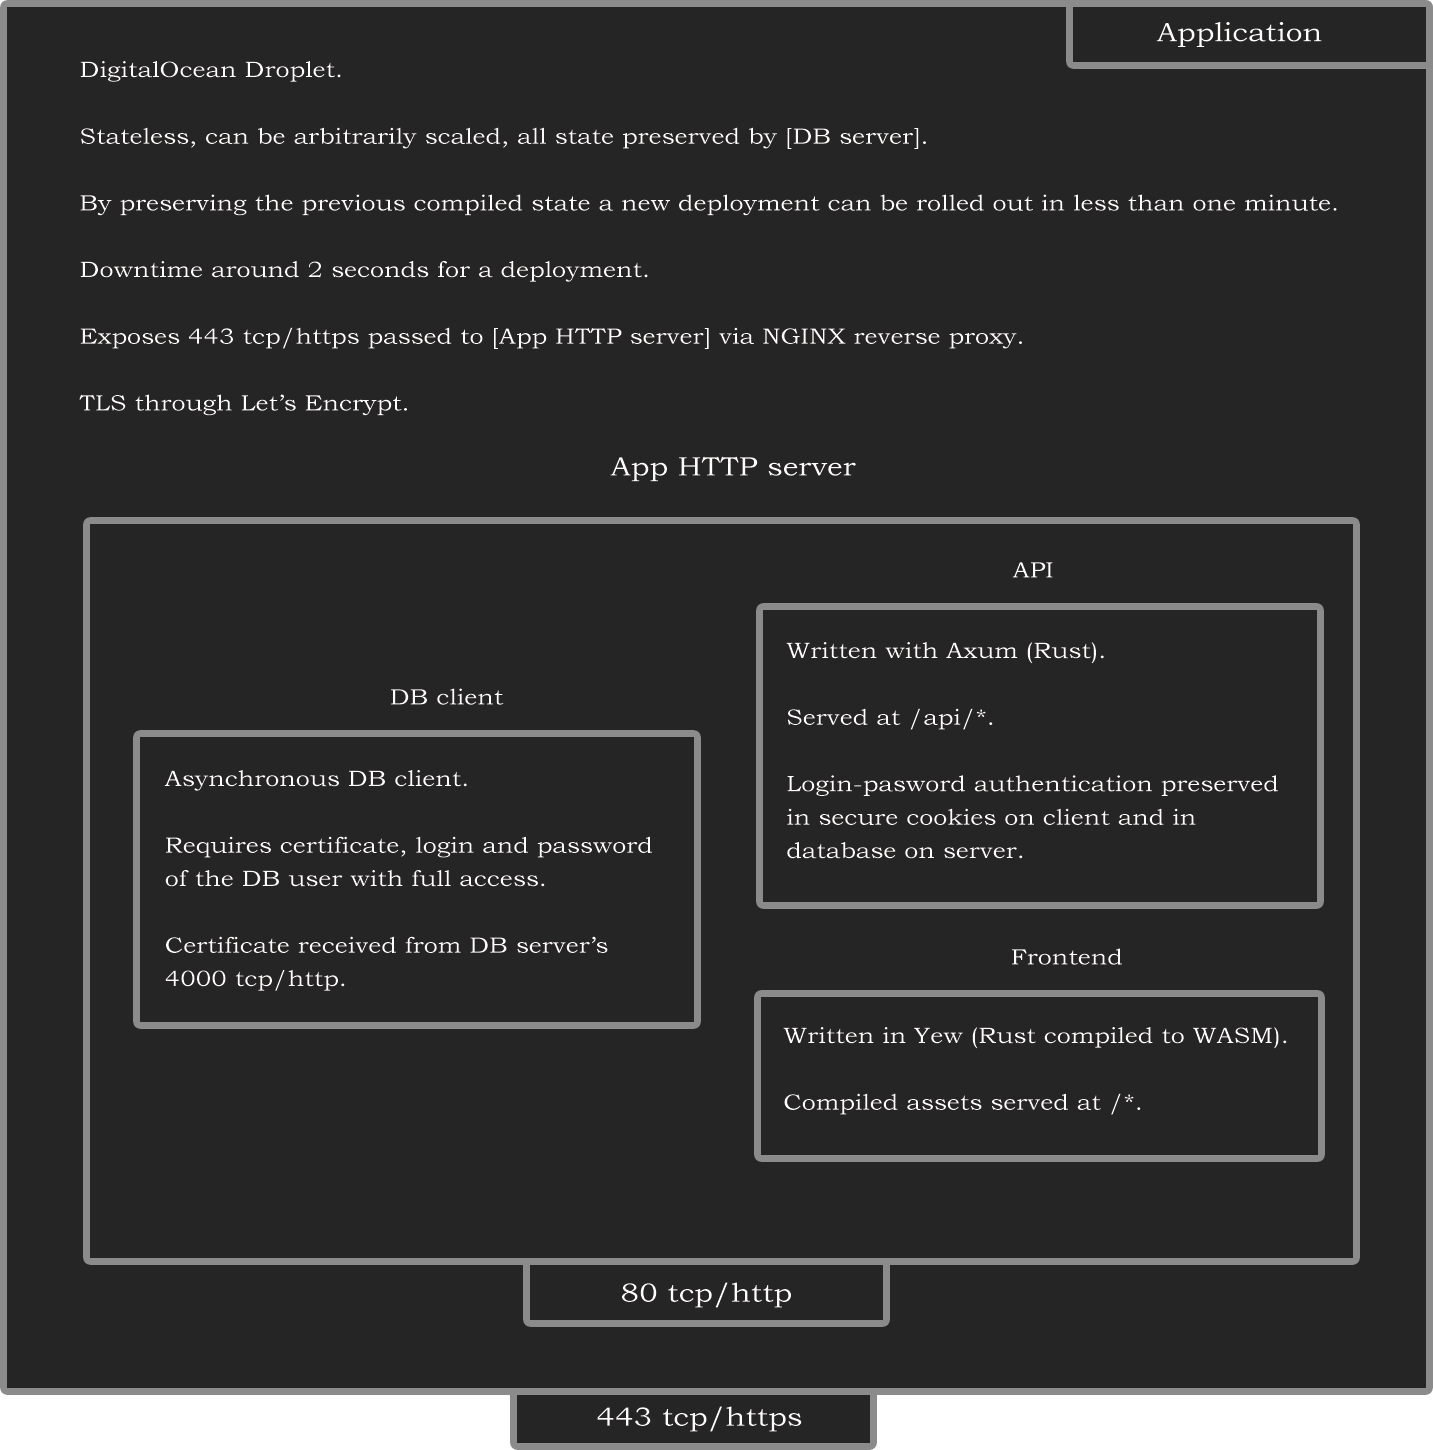
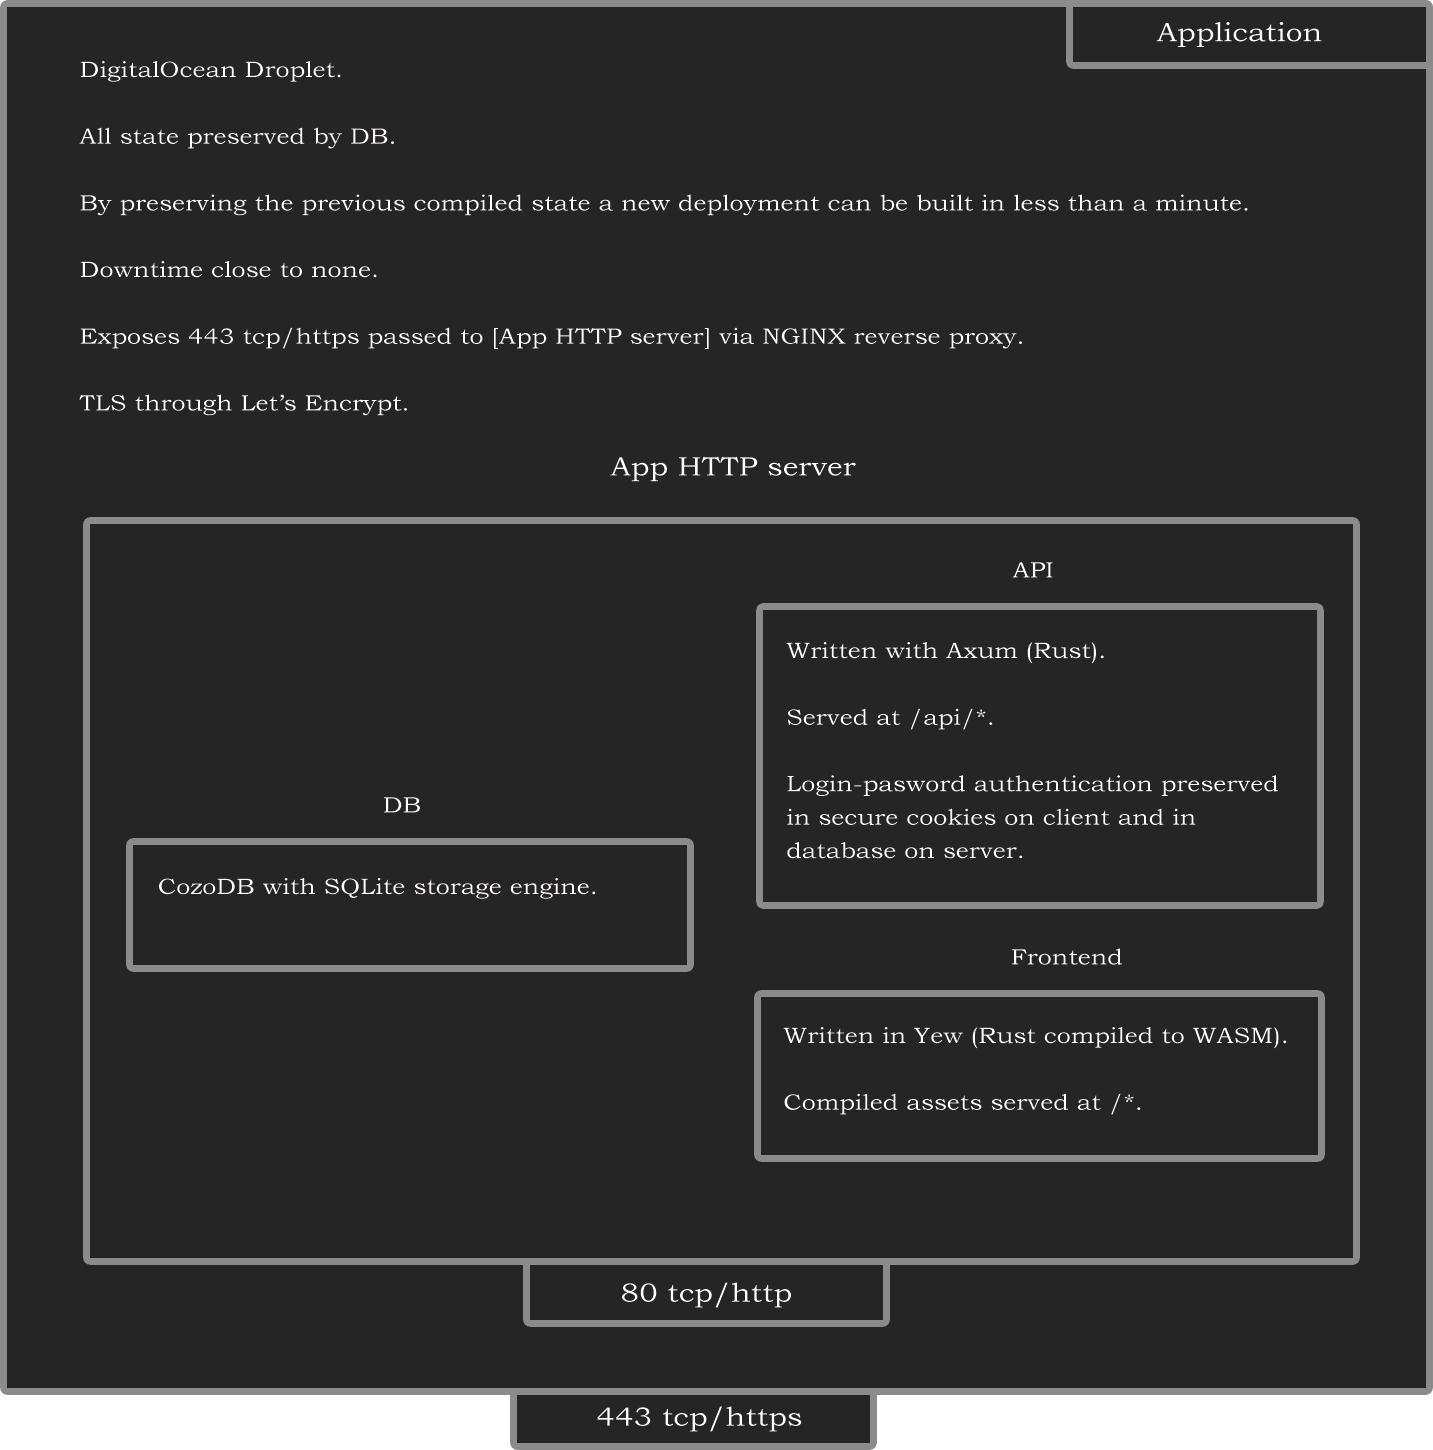
update system diagram

diff --git a/README.md b/README.md
@@ -15,9 +15,6 @@ Architecture
 ![](/api/static/app-system-diagram.png)
 
 
-![](https://github.com/phantie/wsite/blob/master/backend/static/db-system-diagram.png)
-![](/api/static/db-system-diagram.png)
-
 Interesting implemented things:
 --------------------------------------
 - frontend in Rust
